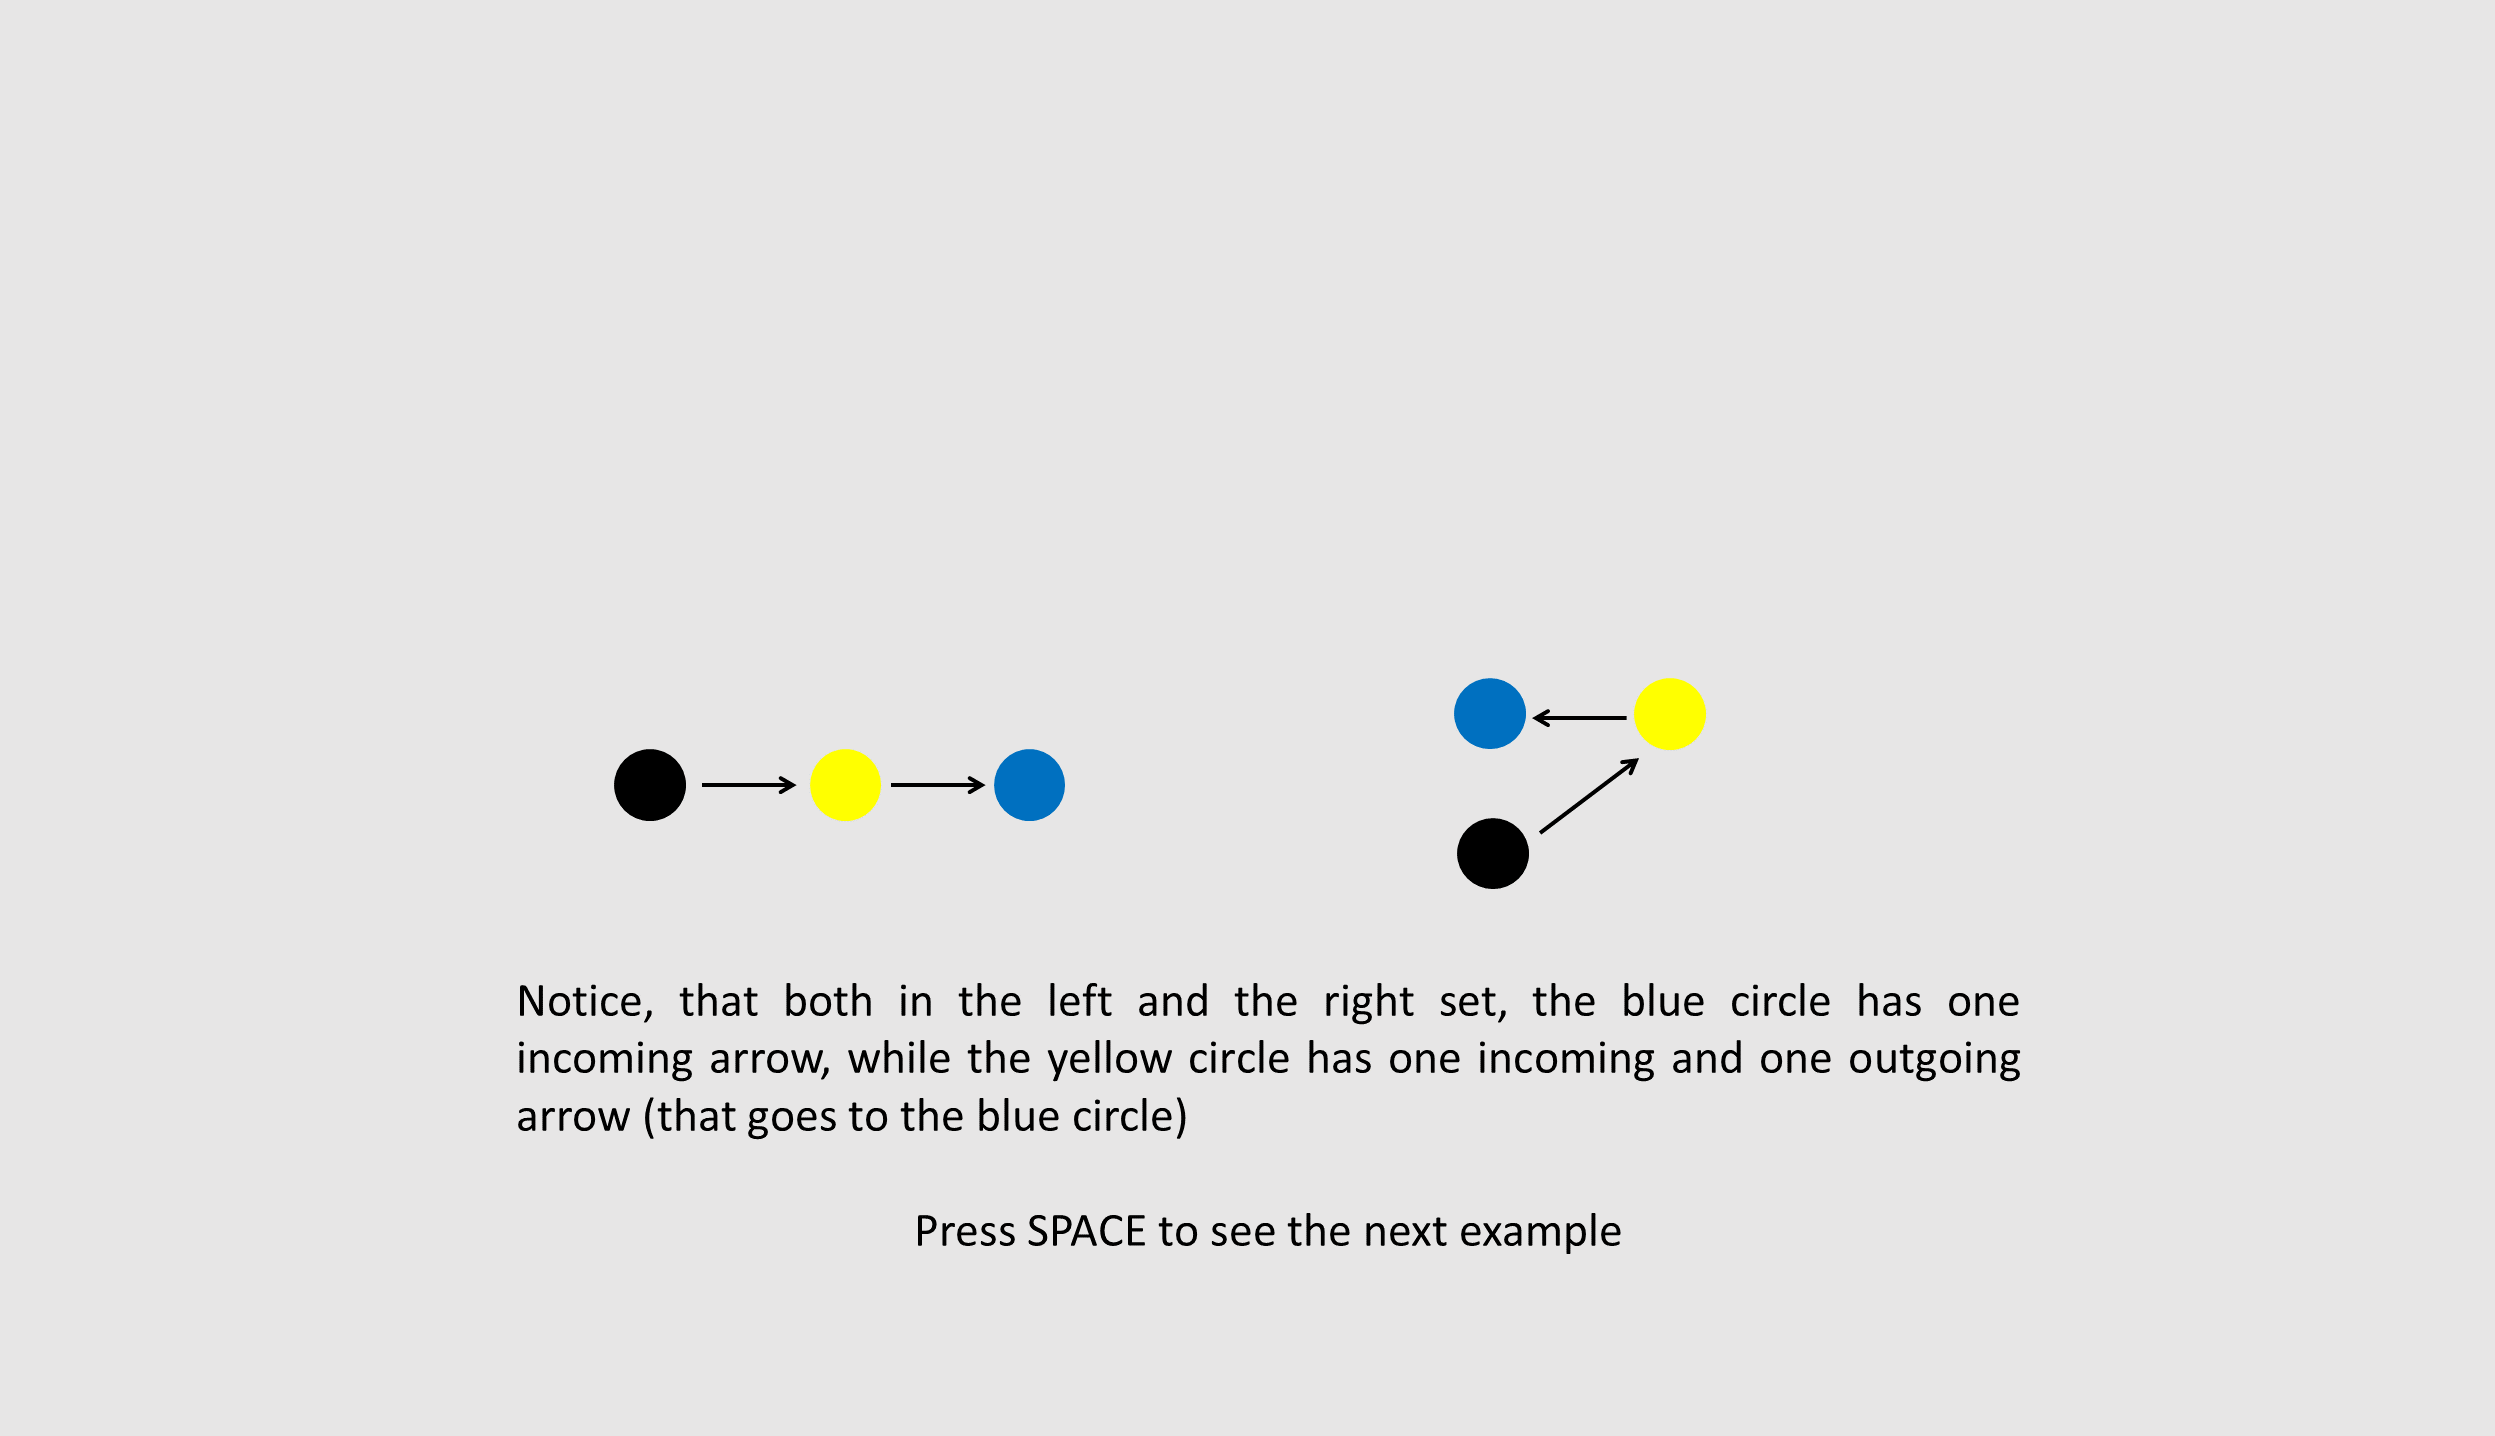
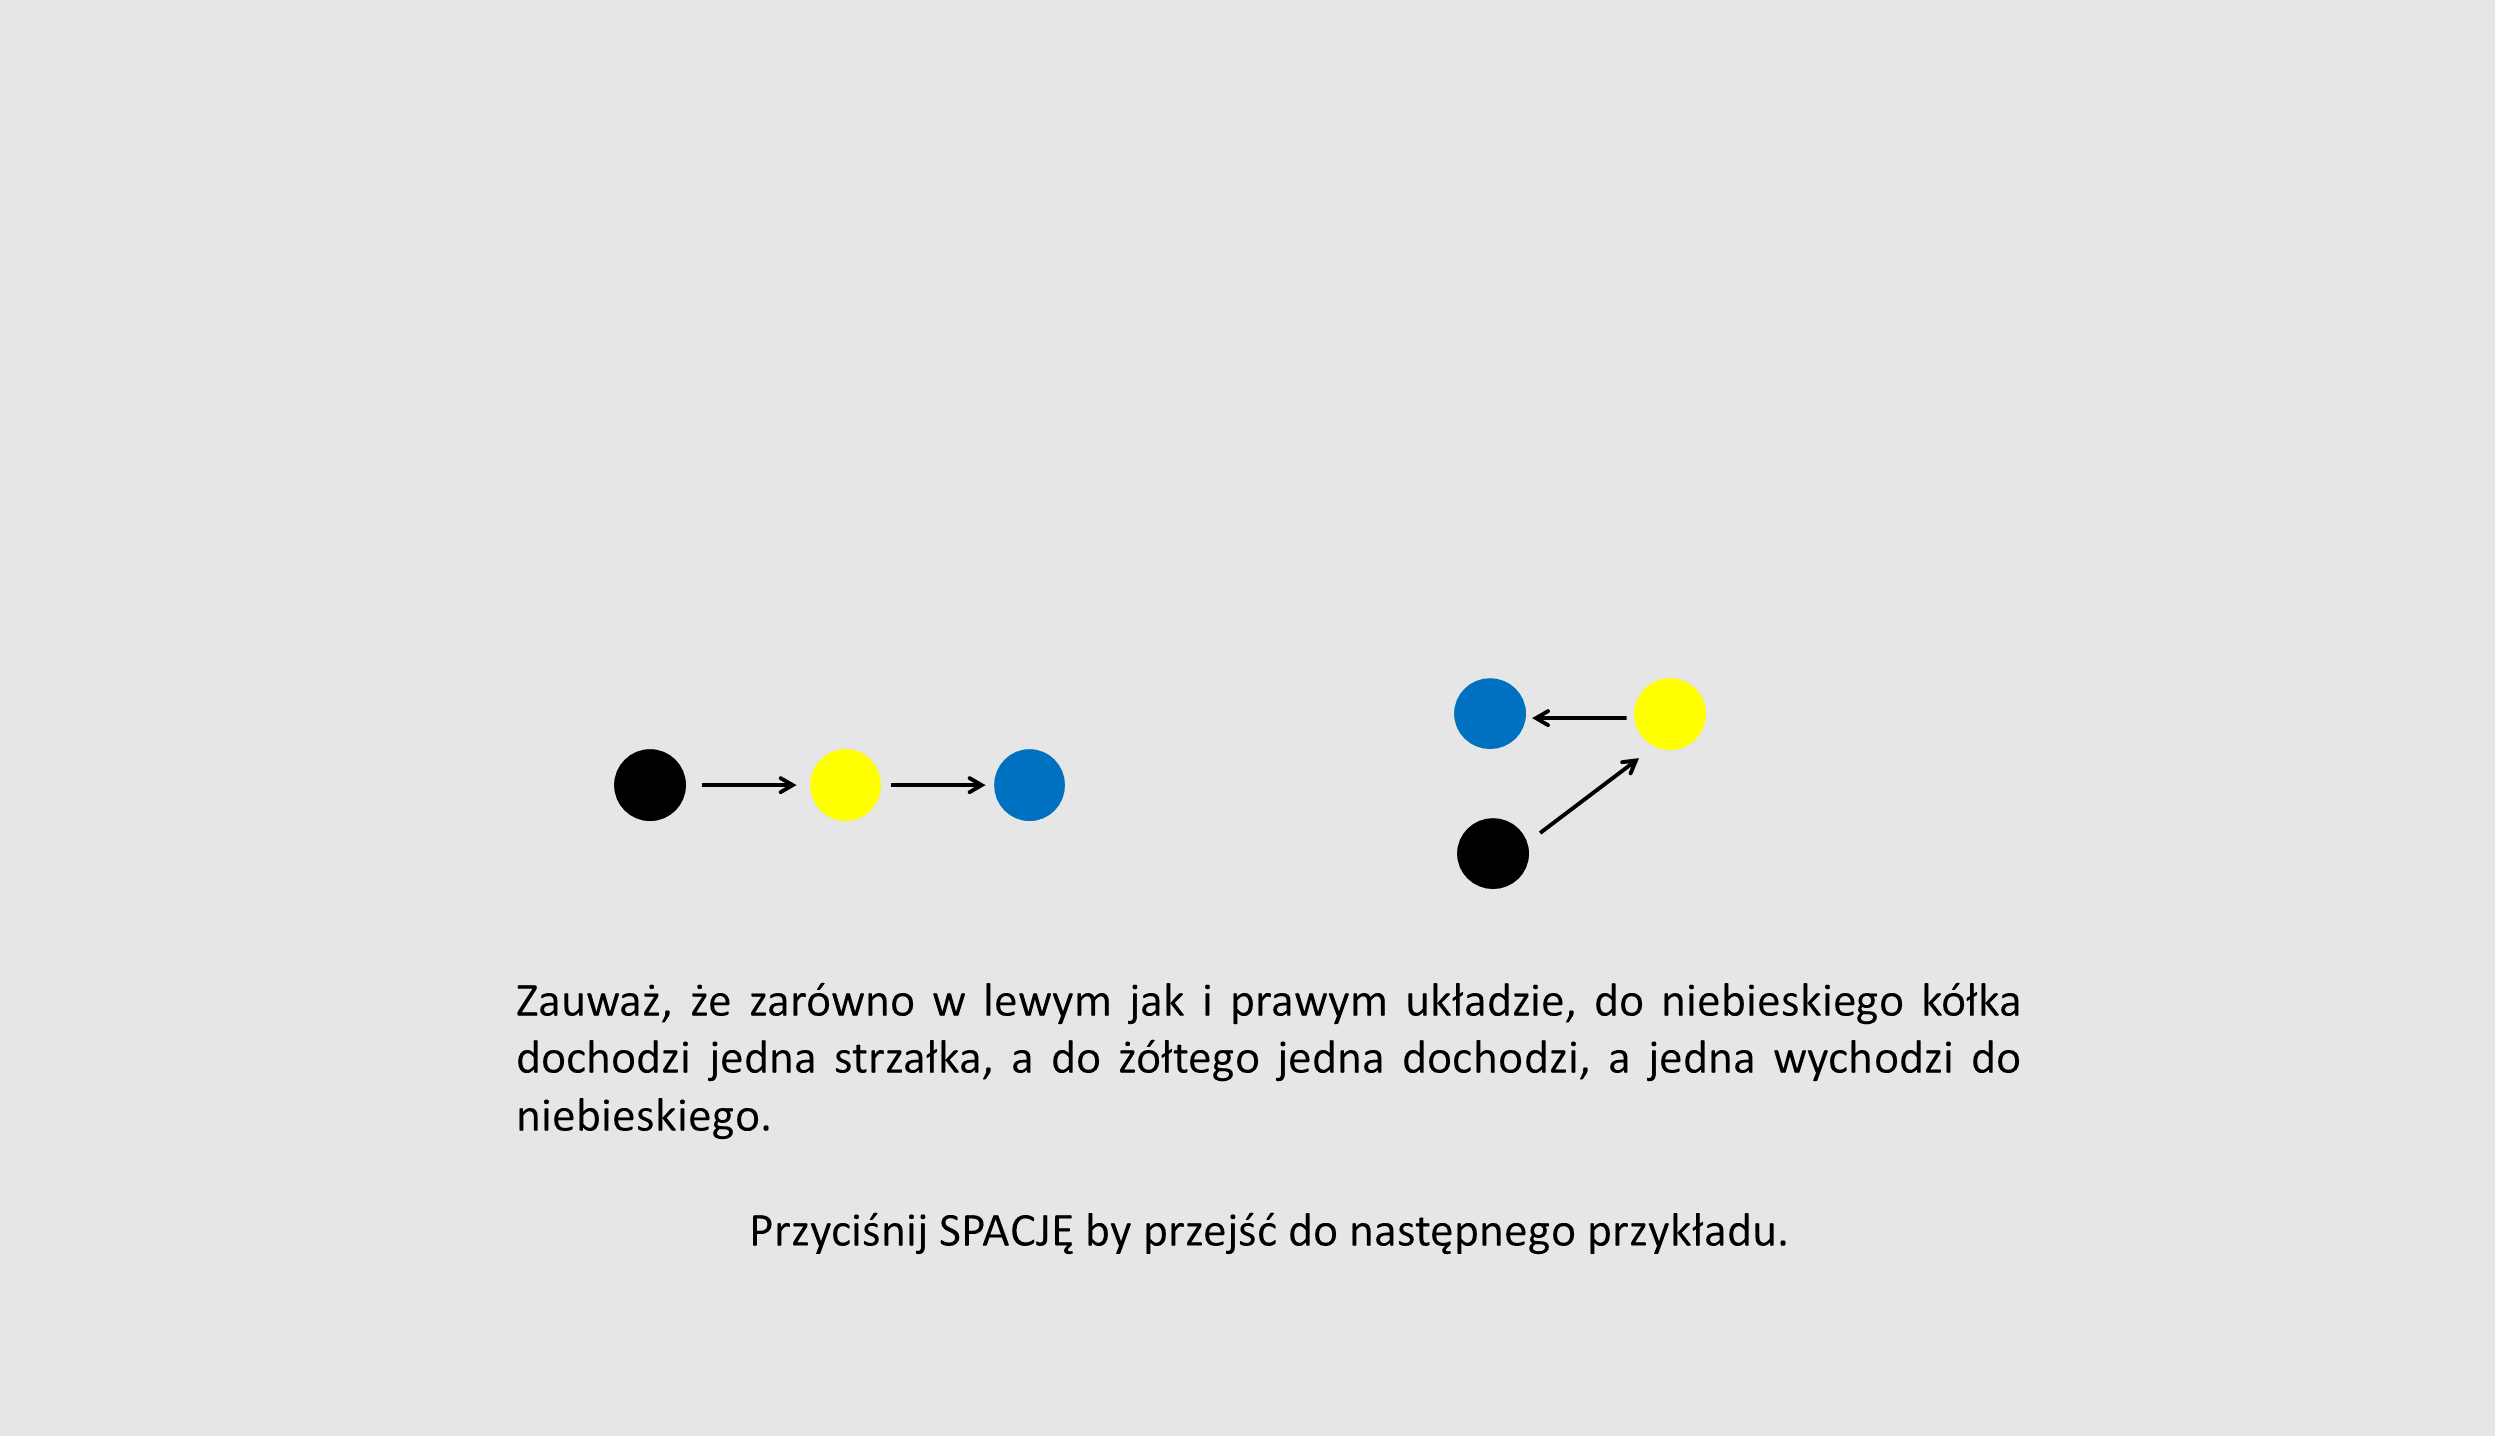
różne

Changed region(s): [[0.216, 0.6741, 0.8024, 0.7967], [0.3086, 0.8273, 0.7098, 0.8886]]

diff --git a/main.py b/main.py
@@ -5,7 +5,7 @@ import csv
 import random
 
 from sources.experiment_info import experiment_info
-from sources.load_data import load_config, load_trials
+from sources.load_data import load_config, load_trials, replace_polish
 from sources.screen import get_screen_res, get_frame_rate
 from sources.show_info import show_info, show_image
 from sources.trail import trial
@@ -65,9 +65,9 @@ mouse_info = visual.ImageStim(win=window, image=join('images', 'mouse_info.PNG')
 answers_colors = random.sample(config["answers_colors"], 2) if config["randomize_answers_colors"] \
     else config["answers_colors"]
 
-pos_feedb = visual.TextStim(window, text=(config["pos_feedb"]), color='black', height=25, pos=(0, -120))
-neg_feedb = visual.TextStim(window, text=(config["neg_feedb"]), color='black', height=25, pos=(0, -120))
-no_feedb = visual.TextStim(window, text=(config["no_feedb"]), color='black', height=25, pos=(0, -120))
+pos_feedb = visual.TextStim(window, text=replace_polish(config["pos_feedb"]), color='black', height=25, pos=(0, -120))
+neg_feedb = visual.TextStim(window, text=replace_polish(config["neg_feedb"]), color='black', height=25, pos=(0, -120))
+no_feedb = visual.TextStim(window, text=replace_polish(config["no_feedb"]), color='black', height=25, pos=(0, -120))
 feedb = {"pos": pos_feedb, "neg": neg_feedb, "no": no_feedb}
 
 # TRAINING

diff --git a/sources/trail.py b/sources/trail.py
@@ -3,6 +3,7 @@ from psychopy import event, core, visual
 
 from sources.matrix import Matrix
 from sources.check_exit import check_exit
+from sources.load_data import replace_polish
 
 
 def trial(window, config, answers_colors, info, mouse, clock_image, feedb, mouse_info, idx_info):
@@ -12,7 +13,7 @@ def trial(window, config, answers_colors, info, mouse, clock_image, feedb, mouse
     a.mark_answer(v_nr=info["left"][0], color=answers_colors[0])
     a.mark_answer(v_nr=info["right"][0], color=answers_colors[1])
     b = Matrix(win=window, pos=config["MATRIX_2_POS"], config=config, v=info["VB"], e=info["EB"], answers=None)
-    press_space_msg = visual.TextStim(window, text=u'Press space', color='red', height=25, pos=(0, -400))  # Przyci\u015Bnij spacje
+    press_space_msg = visual.TextStim(window, text=replace_polish(config["press_space"]), color='red', height=25, pos=(0, -400))
     a.set_auto_draw(True)
     b.set_auto_draw(True)
     window.callOnFlip(response_clock.reset)

diff --git a/sources/load_data.py b/sources/load_data.py
@@ -26,7 +26,7 @@ def load_trials(file_name="items.csv"):
                     header = row
                 else:
                     data_row = {k: v for k, v in zip(header, row)}
-                    for k in ["NR", "FEED", "TRAIN", "NV", "NE", "Bidirectional", "Type"]:
+                    for k in ["NR", "FEED", "TRAIN", "NV", "NE"]:
                         data_row[k] = int(data_row[k])
                     for k in ["VA", "VB", "left", "right"]:
                         data_row[k] = [int(elem) for elem in data_row[k].split(",")]
